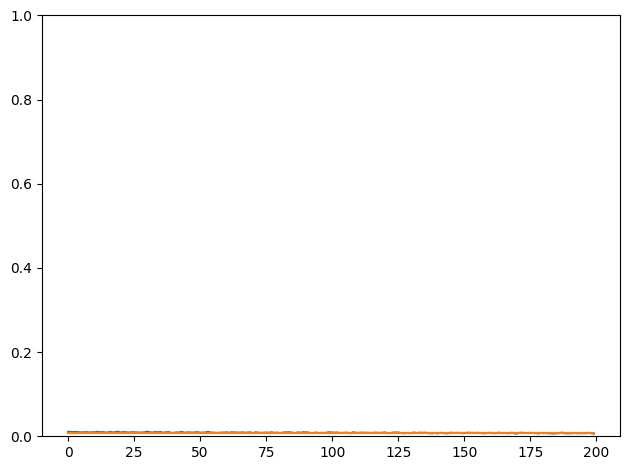
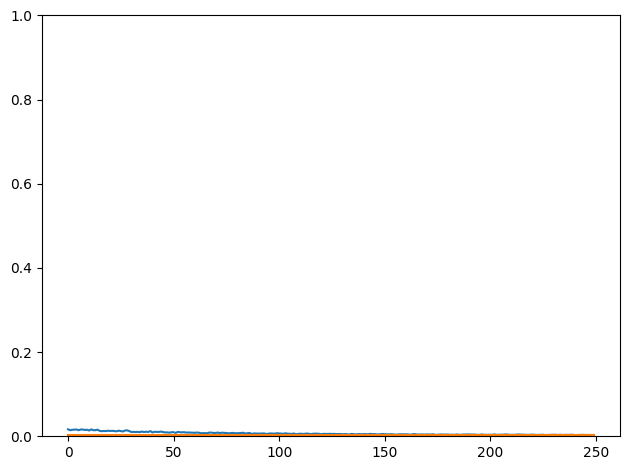
found best model

Changed region(s): [[0.0905, 0.8936, 0.9349, 0.983], [0.9349, 0.9532, 0.9651, 0.983]]

diff --git a/main.py b/main.py
@@ -34,15 +34,16 @@ val_labels = labels[val_indices]
 hyperparams_part1 = {
     'dim_hid': [5, 10, 20, 50],
     'alpha': [0.01, 0.005, 0.001],
-    'eps': [50, 100, 200],
+    'eps': [50, 150, 250],
     'normalize': [True,],
+    'early_stopping': [{'stop-early': True, 'patience': 15, 'delta': 0}],
     'hidden_activation': ['sigmoid', 'tanh', 'relu'],
     'output_activation': ['softmax']
 }
 
 
 # Experimental hyperparameters for the second search to fine tune the model
-early_stopping_options = [{'stop-early': True, 'patience': 10, 'delta': 0}, {'stop-early': True, 'patience': 10, 'delta': 0.001},{'stop-early': False}]
+early_stopping_options = [{'stop-early': True, 'patience': 15, 'delta': 0}, {'stop-early': True, 'patience': 15, 'delta': 0.001},{'stop-early': False}]
 lr_schedule_options = [{'decay': 'exponential_decay', 'params': {'decay_rate': 0.01}}, {'decay': 'step_decay', 'params': {'drop': 0.8, 'epochs_drop': 15}}, {'decay': None}]
 
 
@@ -167,6 +168,11 @@ def perform_grid_search(hyperparams, fixed_params=None, filename="model_results.
 # Perform the first grid search
 print("Starting first grid search...\n")
 best_model_part1, best_params_part1 = perform_grid_search(hyperparams_part1, filename="results/model_results_part1.csv")
+
+try:
+    del best_params_part1['early_stopping']
+except KeyError:
+    pass
 
 # Perform the second grid search using the best parameters from the first search
 print("Starting second grid search...\n")
